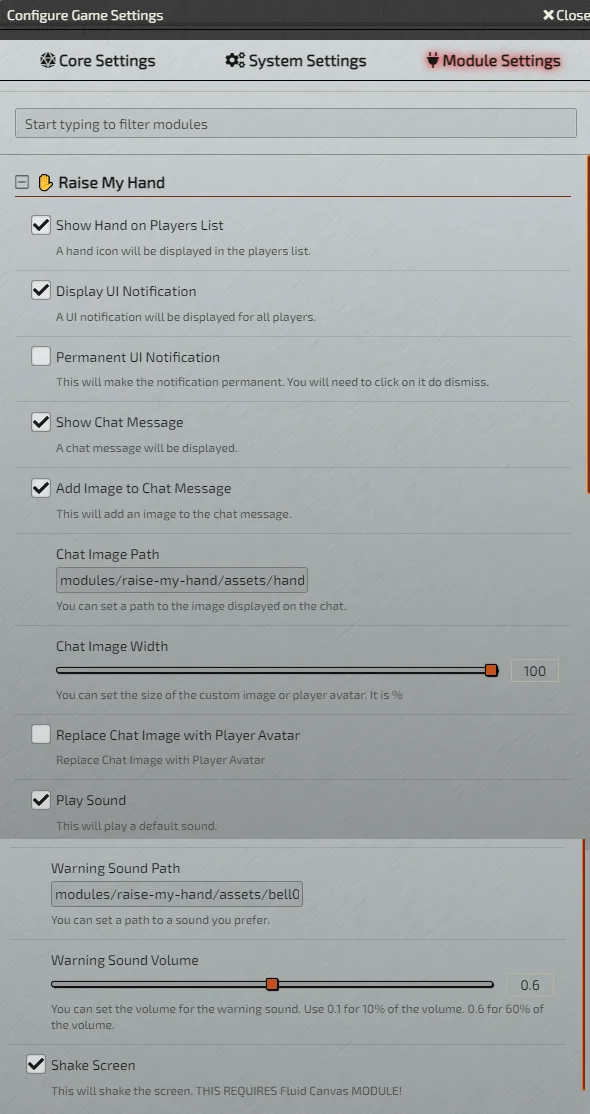
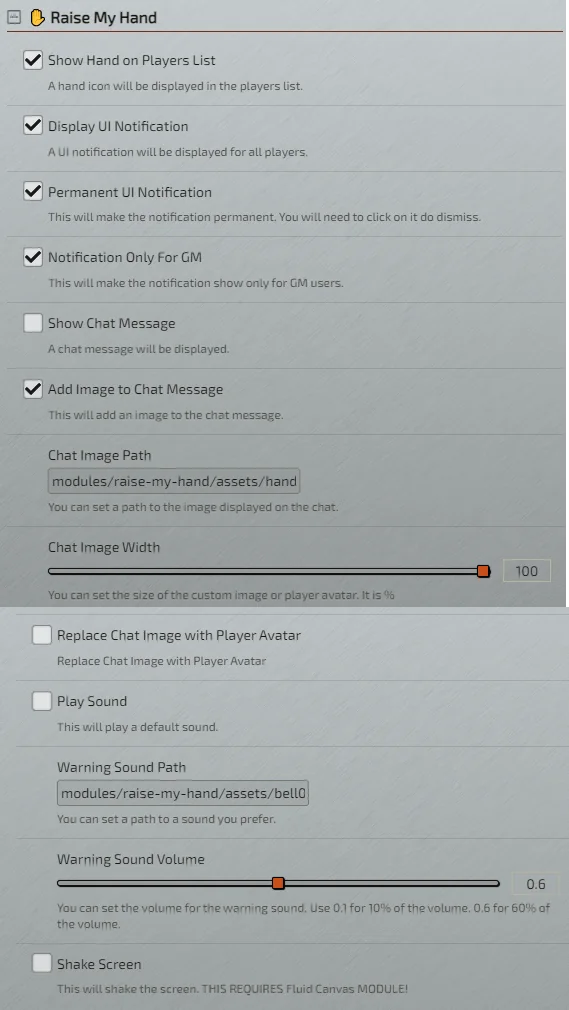
1.3.0

diff --git a/scripts/module.js b/scripts/module.js
@@ -46,6 +46,15 @@ Hooks.once('ready', function() {
     type: Boolean,
     default: false
   });
+  
+  game.settings.register(moduleName, "showUiNotificationOnlyToGM", {
+    name: game.i18n.localize("raise-my-hand.settings.showuinotificationonlytogm.name"), 
+    hint: game.i18n.localize("raise-my-hand.settings.showuinotificationonlytogm.hint"), 
+    scope: 'world',
+    config: true,
+    type: Boolean,
+    default: false
+  });  
 
   game.settings.register(moduleName, "showUiChatMessage", {
     name: game.i18n.localize("raise-my-hand.settings.showuichatmessage.name"), // "Should a raised hand display a chat message when raised?"

diff --git a/README.md b/README.md
@@ -7,7 +7,7 @@ A player can click in the hand to request attention.
   <tr>
     <th>
       <p align="center">
-        <img width="1000" src="assets/doc.webp">
+        <img width="900" src="assets/doc.webp">
       </p>
     </th>
   </tr>
@@ -16,7 +16,7 @@ A player can click in the hand to request attention.
 
 ## Features
 - A small hand will appear next to the player name.
-- A notification warning will be displayed.
+- A notification warning will be displayed. You can set to everyone or just GM users.
 - A sound will be played. You can set the sound and volume.
 - A message will be sent to the chat. It will get the user color.
 - You can shake the screen. **Requires Fluid Canvas**.
